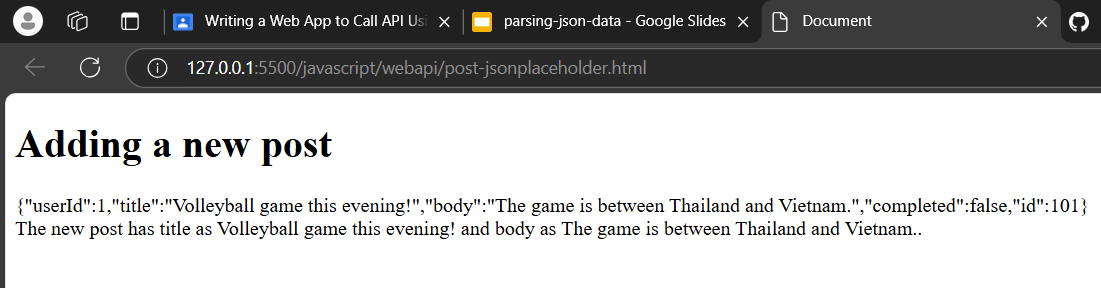
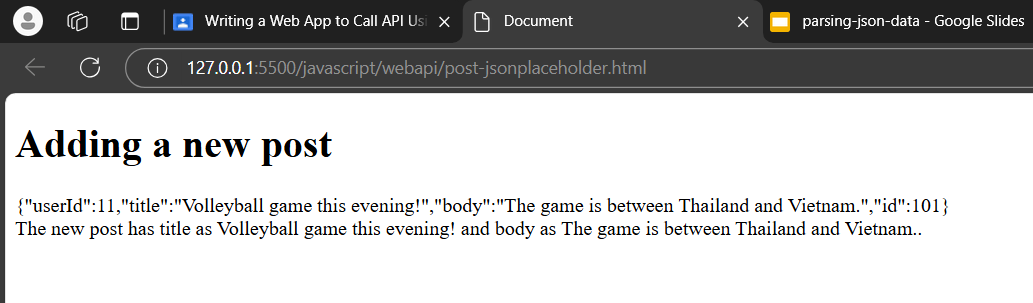
call-post

Changed region(s): [[0.0, 0.0, 1.0, 0.3438], [0.0, 0.6562, 0.9913, 0.8438], [0.0, 0.4062, 0.3408, 0.5938]]

diff --git a/javascript/webapi/post-jsonplaceholder.html b/javascript/webapi/post-jsonplaceholder.html
@@ -12,10 +12,9 @@
         fetch("https://jsonplaceholder.typicode.com/posts", {
             method: "POST",
             body: JSON.stringify({
-                userId: 1,
+                userId: 11,
                 title: "Volleyball game this evening!",
-                body: "The game is between Thailand and Vietnam.",
-                completed: false
+                body: "The game is between Thailand and Vietnam."
             }),
             headers: {
                 "Content-type": "application/json; charset=UTF-8",
